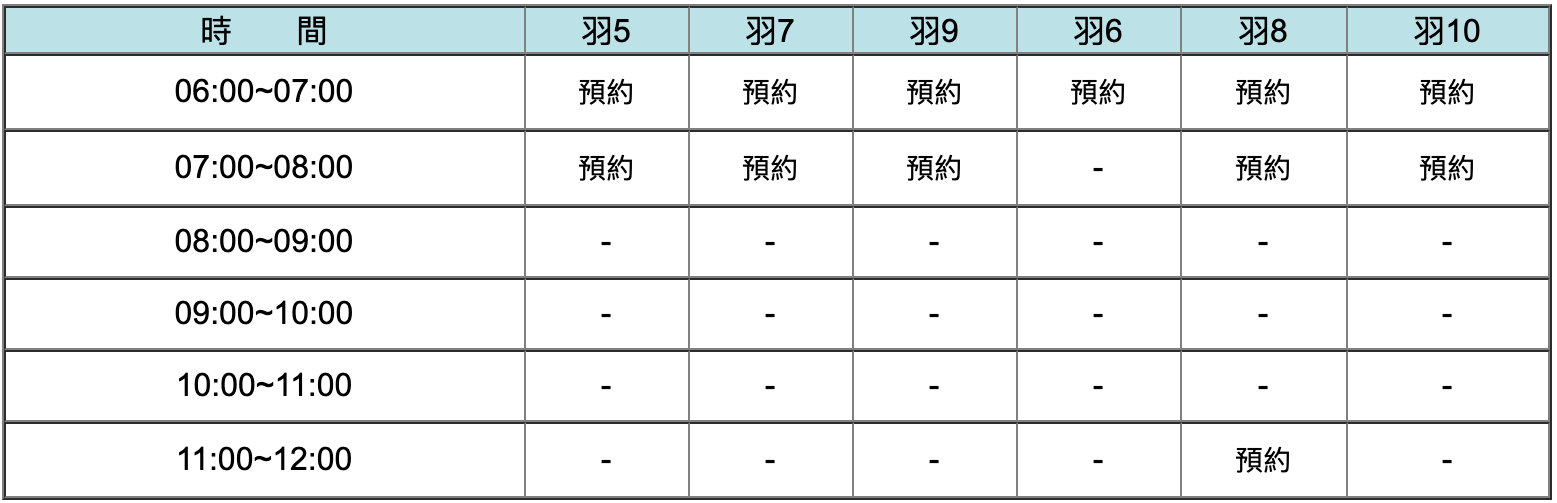
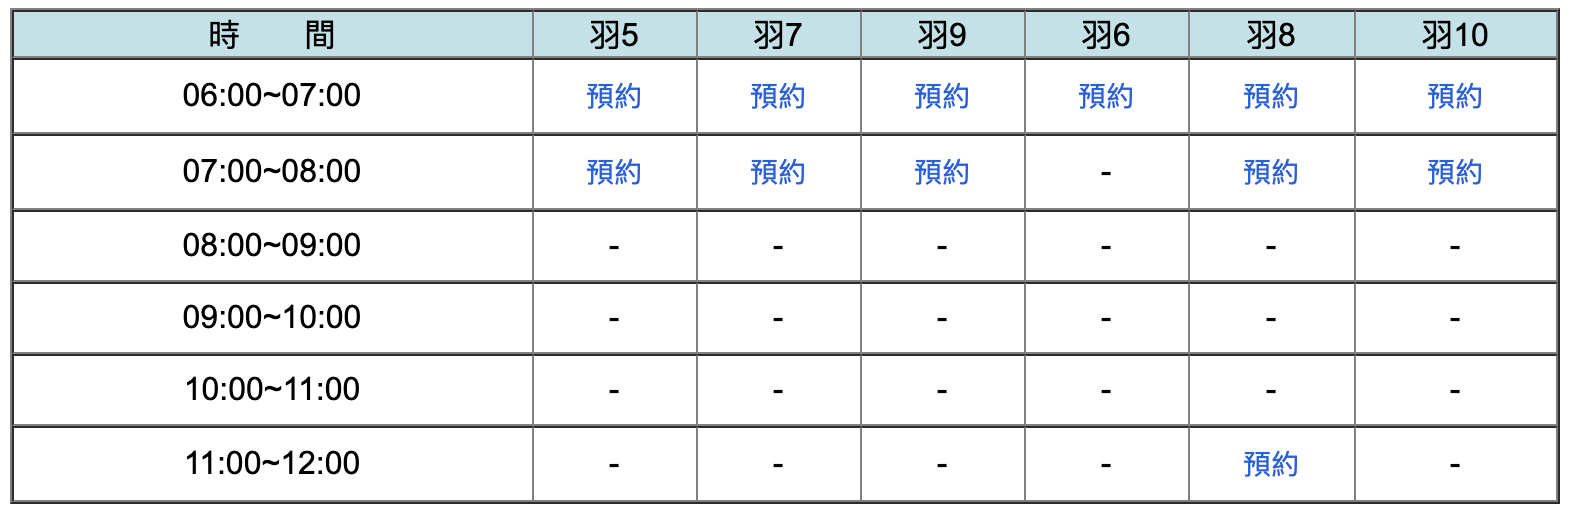
Change link style

diff --git a/Taipei DaAn Sports Center/taipei-daan-sports-center.user.js b/Taipei DaAn Sports Center/taipei-daan-sports-center.user.js
@@ -17,7 +17,7 @@
     'use strict';
     $(document).ready(function () {
 
-        let style = '<style>div.preserve_btn {height: 36px;display: table-cell;vertical-align: middle;font-size: 14px;cursor: pointer;}\ndiv.preserve_btn:hover {color: #1E5EDE;text-decoration: underline;}</style>'
+        let style = '<style>div.preserve_btn {height: 36px;display: table-cell;vertical-align: middle;font-size: 14px;color: #1E5EDE;cursor: pointer;}\ndiv.preserve_btn:hover {color: #578AEF;text-decoration: underline;}</style>'
         $('head').append(style);
 
         var calendar = {};
